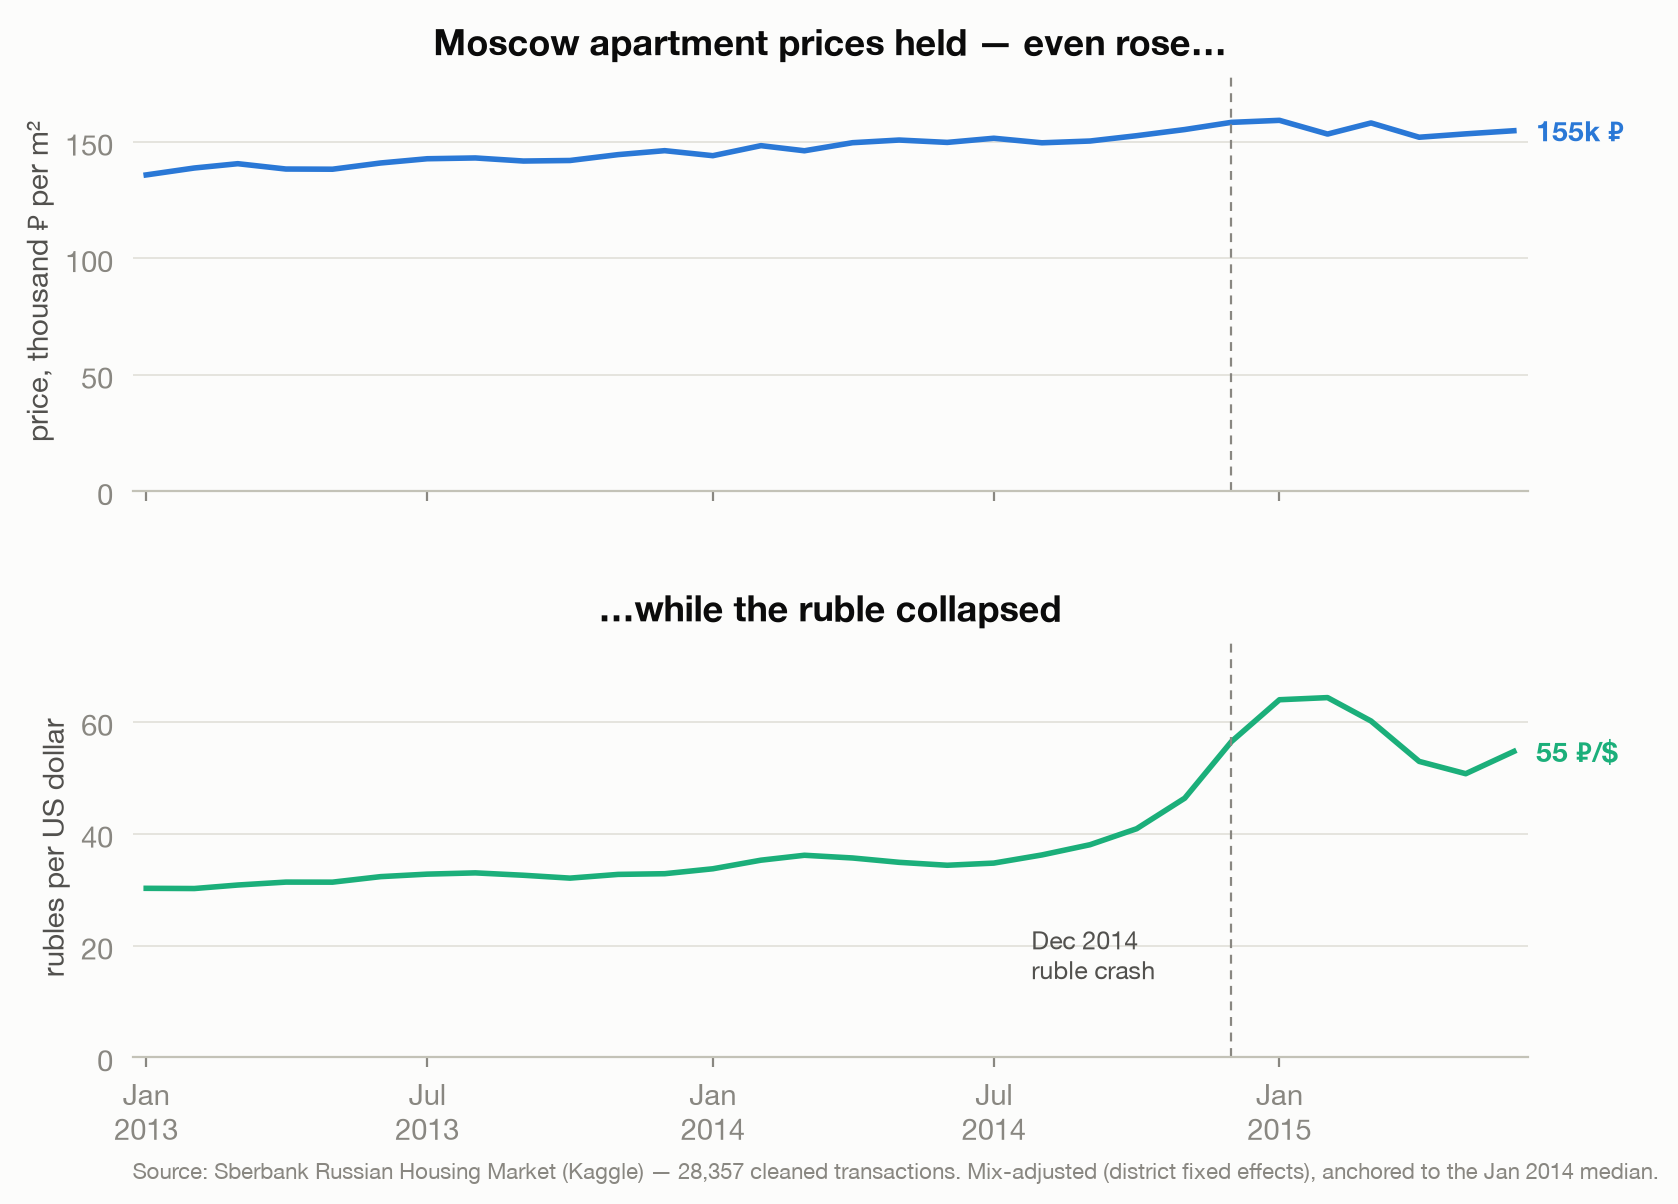
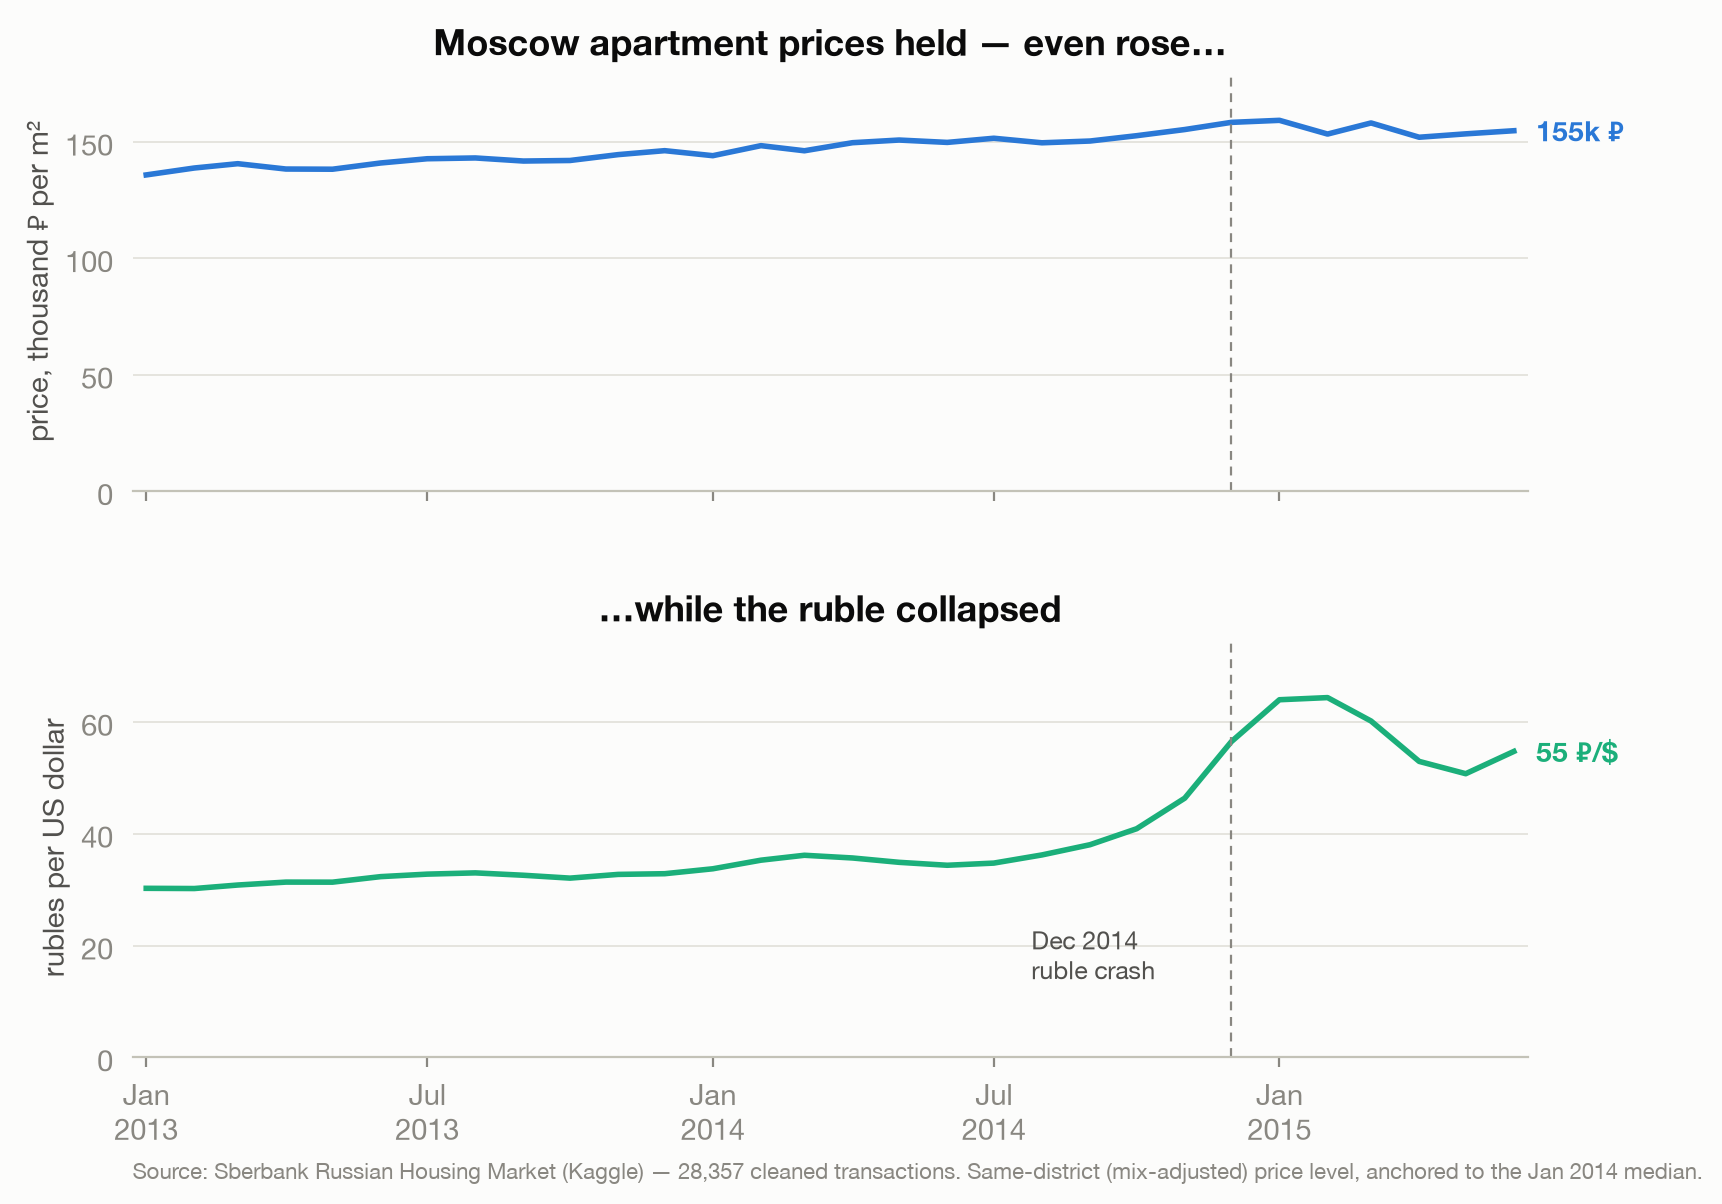
feat: verified essay draft + Word doc — fixes from 4-agent adversarial review

diff --git a/sberbank-housing/md_to_docx.py b/sberbank-housing/md_to_docx.py
@@ -1,0 +1,67 @@
+"""Convert the essay draft (simple markdown) to a Word .docx for review.
+
+Handles the constructs this draft actually uses: #/## headings, paragraphs,
+![img](path), > blockquote, - bullets, --- rule, inline **bold** / *italic*
+and [text](url) rendered as text.
+"""
+import re
+import sys
+from pathlib import Path
+
+from docx import Document
+from docx.shared import Inches, Pt, RGBColor
+
+INLINE = re.compile(r"(\*\*.+?\*\*|\*.+?\*|\[.+?\]\(.+?\))")
+LINK = re.compile(r"\[(.+?)\]\((.+?)\)")
+
+
+def add_runs(par, text):
+    for part in INLINE.split(text):
+        if not part:
+            continue
+        if part.startswith("**") and part.endswith("**"):
+            par.add_run(part[2:-2]).bold = True
+        elif part.startswith("*") and part.endswith("*"):
+            par.add_run(part[1:-1]).italic = True
+        elif LINK.fullmatch(part):
+            par.add_run(LINK.fullmatch(part).group(1))
+        else:
+            par.add_run(part)
+
+
+def convert(md_path, docx_path):
+    md_path = Path(md_path)
+    doc = Document()
+    style = doc.styles["Normal"]
+    style.font.name = "Calibri"
+    style.font.size = Pt(11)
+
+    for block in md_path.read_text().split("\n\n"):
+        block = block.strip()
+        if not block or block == "---":
+            continue
+        if block.startswith("# "):
+            doc.add_heading(block[2:], level=0)
+        elif block.startswith("## "):
+            doc.add_heading(block[3:], level=1)
+        elif block.startswith("!["):
+            m = re.match(r"!\[.*?\]\((.+?)\)", block)
+            img = (md_path.parent / m.group(1)).resolve()
+            doc.add_picture(str(img), width=Inches(6.2))
+        elif block.startswith("> "):
+            par = doc.add_paragraph()
+            run = par.add_run(block[2:].replace("\n> ", " "))
+            run.italic = True
+            run.font.color.rgb = RGBColor(0x40, 0x40, 0x40)
+        elif block.startswith("- "):
+            for item in block.split("\n"):
+                add_runs(doc.add_paragraph(style="List Bullet"), item[2:])
+        else:
+            add_runs(doc.add_paragraph(), block.replace("\n", " "))
+
+    doc.save(docx_path)
+    print(f"saved {docx_path}")
+
+
+if __name__ == "__main__":
+    convert(sys.argv[1], sys.argv[2])

diff --git a/sberbank-housing/make_charts.py b/sberbank-housing/make_charts.py
@@ -72,7 +72,7 @@ def chart1(m):
     ax2.annotate("Dec 2014\nruble crash", (CRASH, 12), xytext=(-72, 4),
                  textcoords="offset points", color=INK2, fontsize=9)
     fig.text(0.125, 0.015, "Source: Sberbank Russian Housing Market (Kaggle) — "
-             "28,357 cleaned transactions. Mix-adjusted (district fixed effects), "
+             "28,357 cleaned transactions. Same-district (mix-adjusted) price level, "
              "anchored to the Jan 2014 median.", fontsize=8, color=MUTED)
     save(fig, "01_stable_prices.png")
 
@@ -149,7 +149,7 @@ def chart5(m):
     w = m.loc[WINDOW]
     fig, ax = plt.subplots(figsize=(9, 4.6))
     ax.bar(w.index, w.n_sales, width=22, color=BLUE, linewidth=0)
-    ax.set_title("Prices held — because the market froze instead")
+    ax.set_title("Panic buying, then paralysis")
     ax.set_ylabel("recorded transactions per month")
     peak = w.n_sales.idxmax()
     ax.annotate(f"Dec 2014: {w.n_sales.max():,.0f} sales —\npanic buying as the "
@@ -157,13 +157,13 @@ def chart5(m):
                 textcoords="offset points", color=INK2, fontsize=9,
                 arrowprops={"arrowstyle": "-", "color": MUTED, "lw": 0.8})
     h1_2015 = w.n_sales.loc["2015"].mean()
-    ax.annotate(f"2015: ~{h1_2015:,.0f}/month,\nhalf the 2014 pace",
-                (pd.Timestamp("2015-04-15"), h1_2015), xytext=(-10, 60),
+    ax.annotate("H1 2015: −53% vs H1 2014;\ninvestment buyers −64%",
+                (pd.Timestamp("2015-04-15"), h1_2015), xytext=(-30, 60),
                 textcoords="offset points", color=INK2, fontsize=9)
     style_time_axis(ax)
-    fig.text(0.125, -0.03, "Transactions in the dataset by month. Stable prices on "
-             "collapsing volume are a frozen market, not a stable one.",
-             fontsize=8, color=MUTED)
+    fig.text(0.125, -0.03, "Transactions in the dataset by month. Coverage grew over "
+             "time, so compare year-on-year; the 2015 collapse is steepest among "
+             "investment buyers.", fontsize=8, color=MUTED)
     save(fig, "05_volume.png")
 
 

diff --git a/sberbank-housing/draft/property-isnt-the-hedge-you-think.md b/sberbank-housing/draft/property-isnt-the-hedge-you-think.md
@@ -1,0 +1,96 @@
+# Property Isn't the Hedge You Think
+
+*Proposed excerpt: When Russia's currency collapsed in 2014, Moscow apartment prices didn't fall — they rose. That's exactly how property owners lost a third of their wealth in world prices without noticing. A data story about the most dangerous kind of stability.*
+
+Every Indonesian family I know keeps the same three-item list of safe assets: *tanah, rumah, emas*. Land, house, gold. Salaries are for spending; property is where wealth goes to be protected. The belief runs so deep it barely counts as a belief — it's just what money does.
+
+I found a stress test for that instinct: 30,471 Moscow apartment sales from August 2011 to June 2015, published by Sberbank for a Kaggle competition. Right in the middle of that window, Russia's currency collapsed. If property really is the ultimate hedge, this is where it proves itself.
+
+It doesn't.
+
+## Moscow, December 2014
+
+The setup, briefly. Through 2014, oil — the thing Russia's budget and currency actually run on — fell from around $107 a barrel in January to $46 by the following January. Sanctions over Crimea cut off Western financing. The ruble went from 33 per dollar to a monthly average of 64 at the worst point in early 2015. In the middle of one December night, the central bank raised its key rate to 17% trying to stop the bleeding. Russians famously rushed out to swap their melting rubles for anything solid — televisions, German cars, and, as we'll see in the data, apartments.
+
+So: a proper currency crisis, with a large, obsessively-tracked property market sitting in the middle of it. What did that market do?
+
+## The most reassuring chart in Russia
+
+![Moscow prices held while the ruble collapsed](../charts/01_stable_prices.png)
+
+In rubles, Moscow apartment prices didn't just survive the crisis — they drifted **up about 7%** between January 2014 and June 2015. That figure is like-for-like: I dropped 1,504 fake declared prices (apartments "sold" for exactly 1 or 2 million rubles, a tax dodge) and held the neighborhood mix constant, because Moscow annexed the much cheaper "New Moscow" territories in 2012 and their share of sales swings wildly month to month — details in the method notes.
+
+Like-for-like, in the middle of a collapse, the asset went up. If you owned a Moscow flat and thought in rubles — which is how nearly everyone thinks — you felt fine. You may have felt clever.
+
+## Change the measuring stick and the story collapses
+
+![One asset, three stories](../charts/02_redenominated.png)
+
+Now take the exact same price series and price it three different ways:
+
+- **In rubles: 107.** Up 7%. Comfortable.
+- **Adjusted for Russian inflation: 89.** Down 11%. Quietly shrinking.
+- **In US dollars: 66.** Down a third — a bigger fall than the entire peak-to-trough decline of the US national home-price index after 2008 (about 27%). And nobody in Moscow felt it happen. That's the point.
+
+Same apartments. Same months. The only thing that changed is the ruler.
+
+> An asset priced in a falling currency can go up and lose value at the same time. "Stable" is a property of the measuring stick, not of the asset.
+
+This is money illusion, and property is where it hides best. A dollar account shows you the damage every morning. Your house never quotes you a price — so the loss simply doesn't exist until the day you try to sell.
+
+## "But I earn rubles"
+
+The obvious objection: a Muscovite earns rubles, spends rubles, and retires in rubles. Who cares what the flat is worth in dollars?
+
+![For ruble earners, nothing looked wrong](../charts/03_affordability.png)
+
+The data partly agrees. One month of the average Moscow salary bought about 0.4 square meters before the crisis and about 0.4 after it. From inside the ruble, the system looked stable — that's precisely what makes the illusion so durable.
+
+But there's a crack in this comfort: between January 2014 and mid-2015, consumer prices rose about 20% while the average wage rose 5%. Flat "affordability" against a shrinking real wage isn't stability — everyone got poorer at the same speed, and the ratio just failed to notice.
+
+## The prices were real. The market wasn't.
+
+![Panic buying, then paralysis](../charts/05_volume.png)
+
+Look at December 2014 — the exact month the ruble broke. It's the **busiest month in the entire dataset: 1,578 recorded sales**, as people dumped rubles into concrete the way they dumped them into televisions. Then the market went quiet: the first half of 2015 runs **53% below the first half of 2014**, and the collapse is steepest exactly where you'd expect — investment purchases fell 64%, owner-occupier purchases 29%. (One caveat: this dataset is Sberbank's own book, whose coverage grew over time, so I only compare year-on-year.)
+
+Here's why that matters for the price chart. Every price in this data is one that somebody actually paid. But when volume halves, the prices you observe come from an unrepresentative group — the sellers who got their number. The ones who couldn't sell at yesterday's price simply vanish from the data. Thin markets select for good-looking prices. If anything, the +7% and the −34% are *flattering*: the true value of a Moscow flat you actually needed to sell in 2015 sat somewhere below the line on the chart.
+
+## What the money could have done instead
+
+Maybe property still won by default. What were the alternatives for a Muscovite with, say, a million rubles in January 2014?
+
+![1M rubles, January 2014: where each choice ended up](../charts/04_counterfactual.png)
+
+By June 2015:
+
+- **A Moscow apartment: 1.07M** rubles.
+- **A ruble bank deposit: 1.11M** — yes, the boring deposit beat the apartment.
+- **US dollars in a drawer: 1.62M.**
+- **Just keeping up with inflation required: 1.21M.**
+
+To be fair to the apartment: it could have been rented. Moscow gross yields ran somewhere around 4% a year, and eighteen months of rent puts the flat roughly level with the deposit — call it a tie, before repairs, vacancy, taxes, and the problem of selling into a market with no buyers. (The deposit also got to roll into 13% crisis rates along the way; the flat was bought once.)
+
+The real lesson sits higher up the chart. **Neither of the standard ruble choices kept up with inflation.** Not the apartment, not the deposit. The only choice that preserved wealth was the one that felt reckless — leaving the local currency entirely. One honest caveat: that works in *this* kind of crisis, an external devaluation where the banks stay open. Argentina 2001 confiscated dollar deposits; Russia 1998 froze them. The dollar drawer wins the 2014 scenario, not every scenario.
+
+And there's a lever I've ignored so far: debt. Most people don't buy property with cash, and a fixed-rate mortgage in your own currency is a short position against that currency. Muscovites who owed rubles watched inflation quietly eat a fifth of their debt in real terms — their flat lost 11% in real value, but so did their loan. Meanwhile the minority who had borrowed in dollars and francs — the *valyutnye ipotechniki* — saw their debt nearly double and became a national protest movement. Same asset, opposite outcomes. **The currency of the financing mattered more than the walls.**
+
+## What this means in rupiah
+
+None of this is really about Moscow.
+
+Indonesia ran a harsher version of this experiment in 1998, when the rupiah went from about 2,400 per dollar to past 14,000 at the worst point. And here's the uncomfortable part: Jakarta property didn't even manage Moscow's trick of nominal stability. No official price index reaches back that far — Bank Indonesia's series only starts in 2002 — but the record is one of oversupply, developer collapse, and lending rates above 60%, with prices falling in *nominal rupiah* even as everything else inflated. Property owners lost twice: once to the market, once to the currency. Property, it turns out, has two failure modes, and 1998 Indonesia found the second one.
+
+Gold — the third item on the list — was the one that did its job. It did the same in Moscow: flat in dollars through the crisis, which made it up more than 50% in rubles, not because gold is magic but because its price never asks your currency's opinion.
+
+So here's the rule the data leaves us with. **A hedge has to be denominated in the thing you will actually need.** If your future is entirely in rupiah — you'll live here, spend here, retire here — property genuinely does protect you from rent and from ordinary inflation, and 2014 Moscow would have roughly preserved your local purchasing power. But if any part of your future is priced in someone else's currency — a child's education abroad, medical care, imported anything, the option to leave — then land does not hedge that, no matter how solid it feels.
+
+To be precise about what the data does and doesn't say: over decades, property has been a fine store of wealth in both countries — Moscow flats in dollar terms rose several-fold between 2000 and 2013. What property cannot do is carry you *through* the devaluation event itself. And the devaluation event is exactly when you find out what your hedge is actually made of.
+
+*Tanah, rumah, emas* is two-thirds of a good list. Respect the third item more — and stop confusing "priced in my currency" with "safe."
+
+---
+
+## Method notes
+
+Data: [Sberbank Russian Housing Market](https://www.kaggle.com/c/sberbank-russian-housing-market) (Kaggle) — 30,471 Moscow transactions, Aug 2011–Jun 2015, plus a 99-series macro file (exchange rates, CPI, wages, deposit rates; the wage and CPI figures in this essay come from that file's Moscow salary and Russian CPI series). Cleaning: dropped 1,504 declared-price rows (exactly 1M/2M ₽), implausible areas (≤10 m² or ≥1,000 m²), and trimmed price/m² to the 1st–99th percentile — 28,357 transactions remain. The headline price series is a district fixed-effects index (within-district demeaned log price/m², averaged monthly), anchored to the January 2014 citywide median — this controls for the New Moscow composition shift, whose monthly transaction share ranges from roughly 14% to 38%; the raw citywide median (which ends 12 points lower) is in the notebook as a robustness check. Caveats: transaction mix within districts can still shift; declared prices likely understate true prices even after cleaning; dataset volume partly reflects Sberbank's growing coverage, so volume comparisons are year-on-year; the housing counterfactual excludes rent income and transaction costs (discussed in text) while the deposit rolls monthly at prevailing rates; the gold figure combines the world dollar gold price (roughly −5% over the window) with the dataset's exchange-rate series; the data ends June 2015 — the crisis didn't. Code and notebook: GitHub (link added at publish).